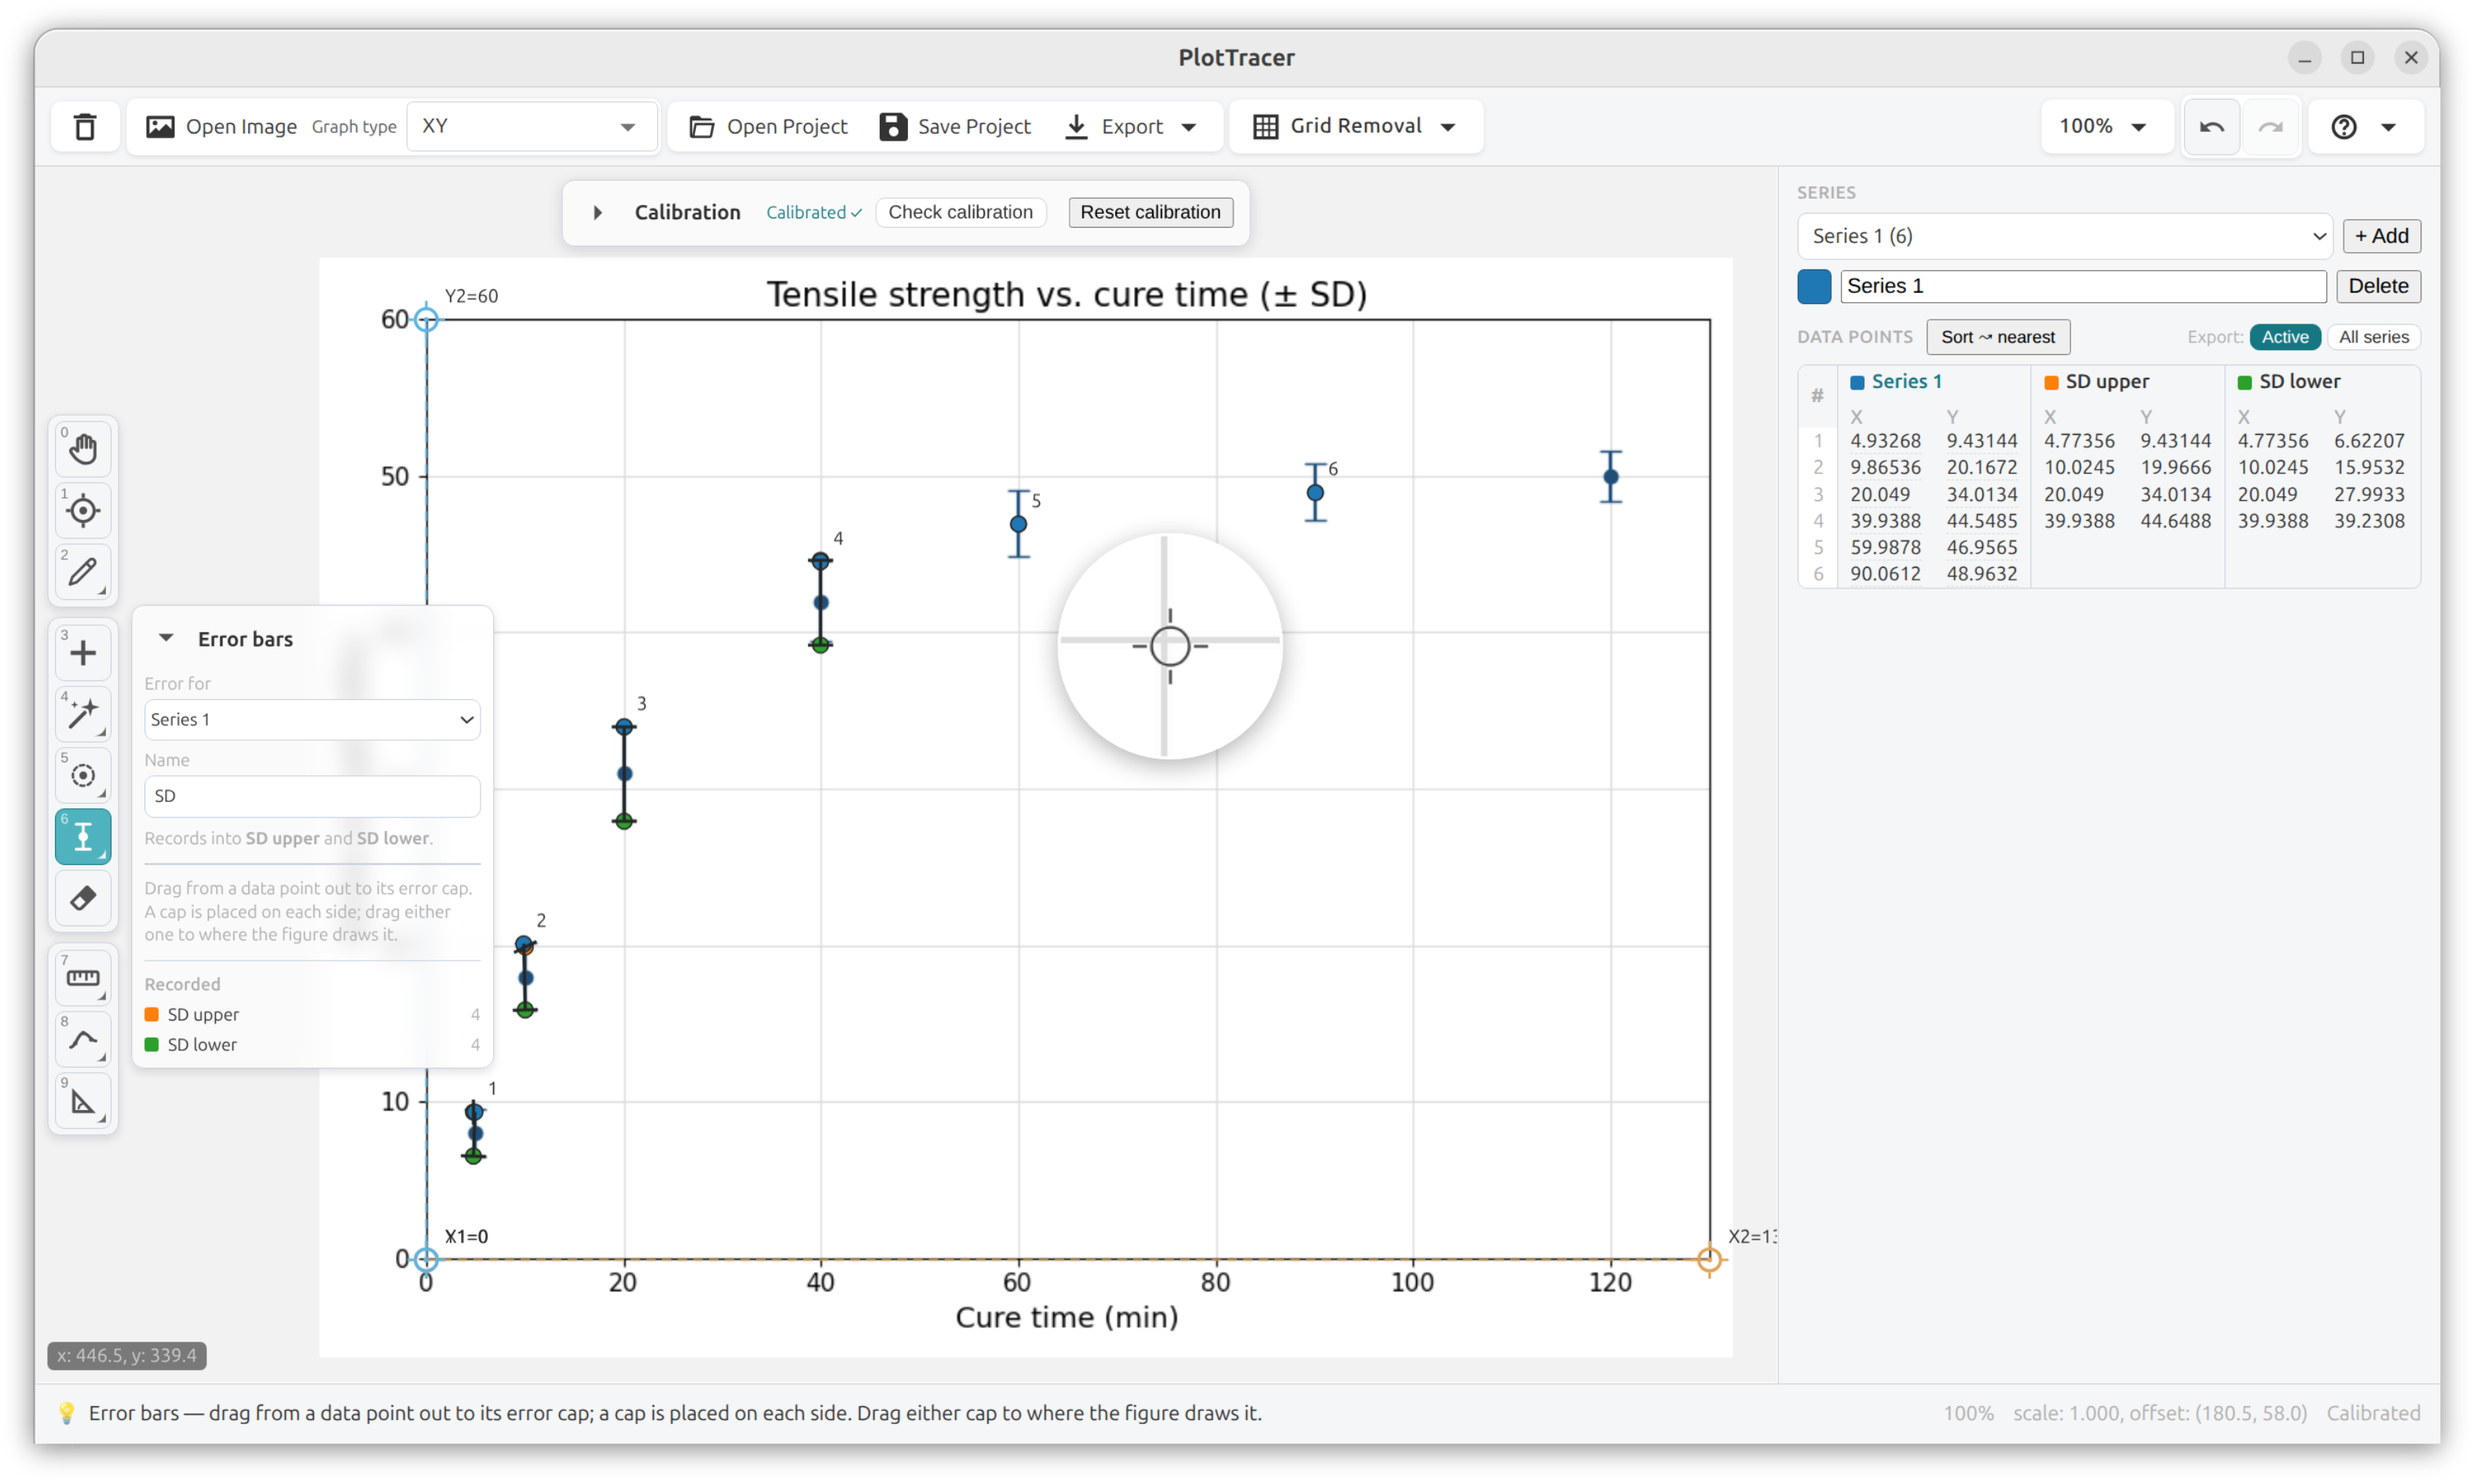
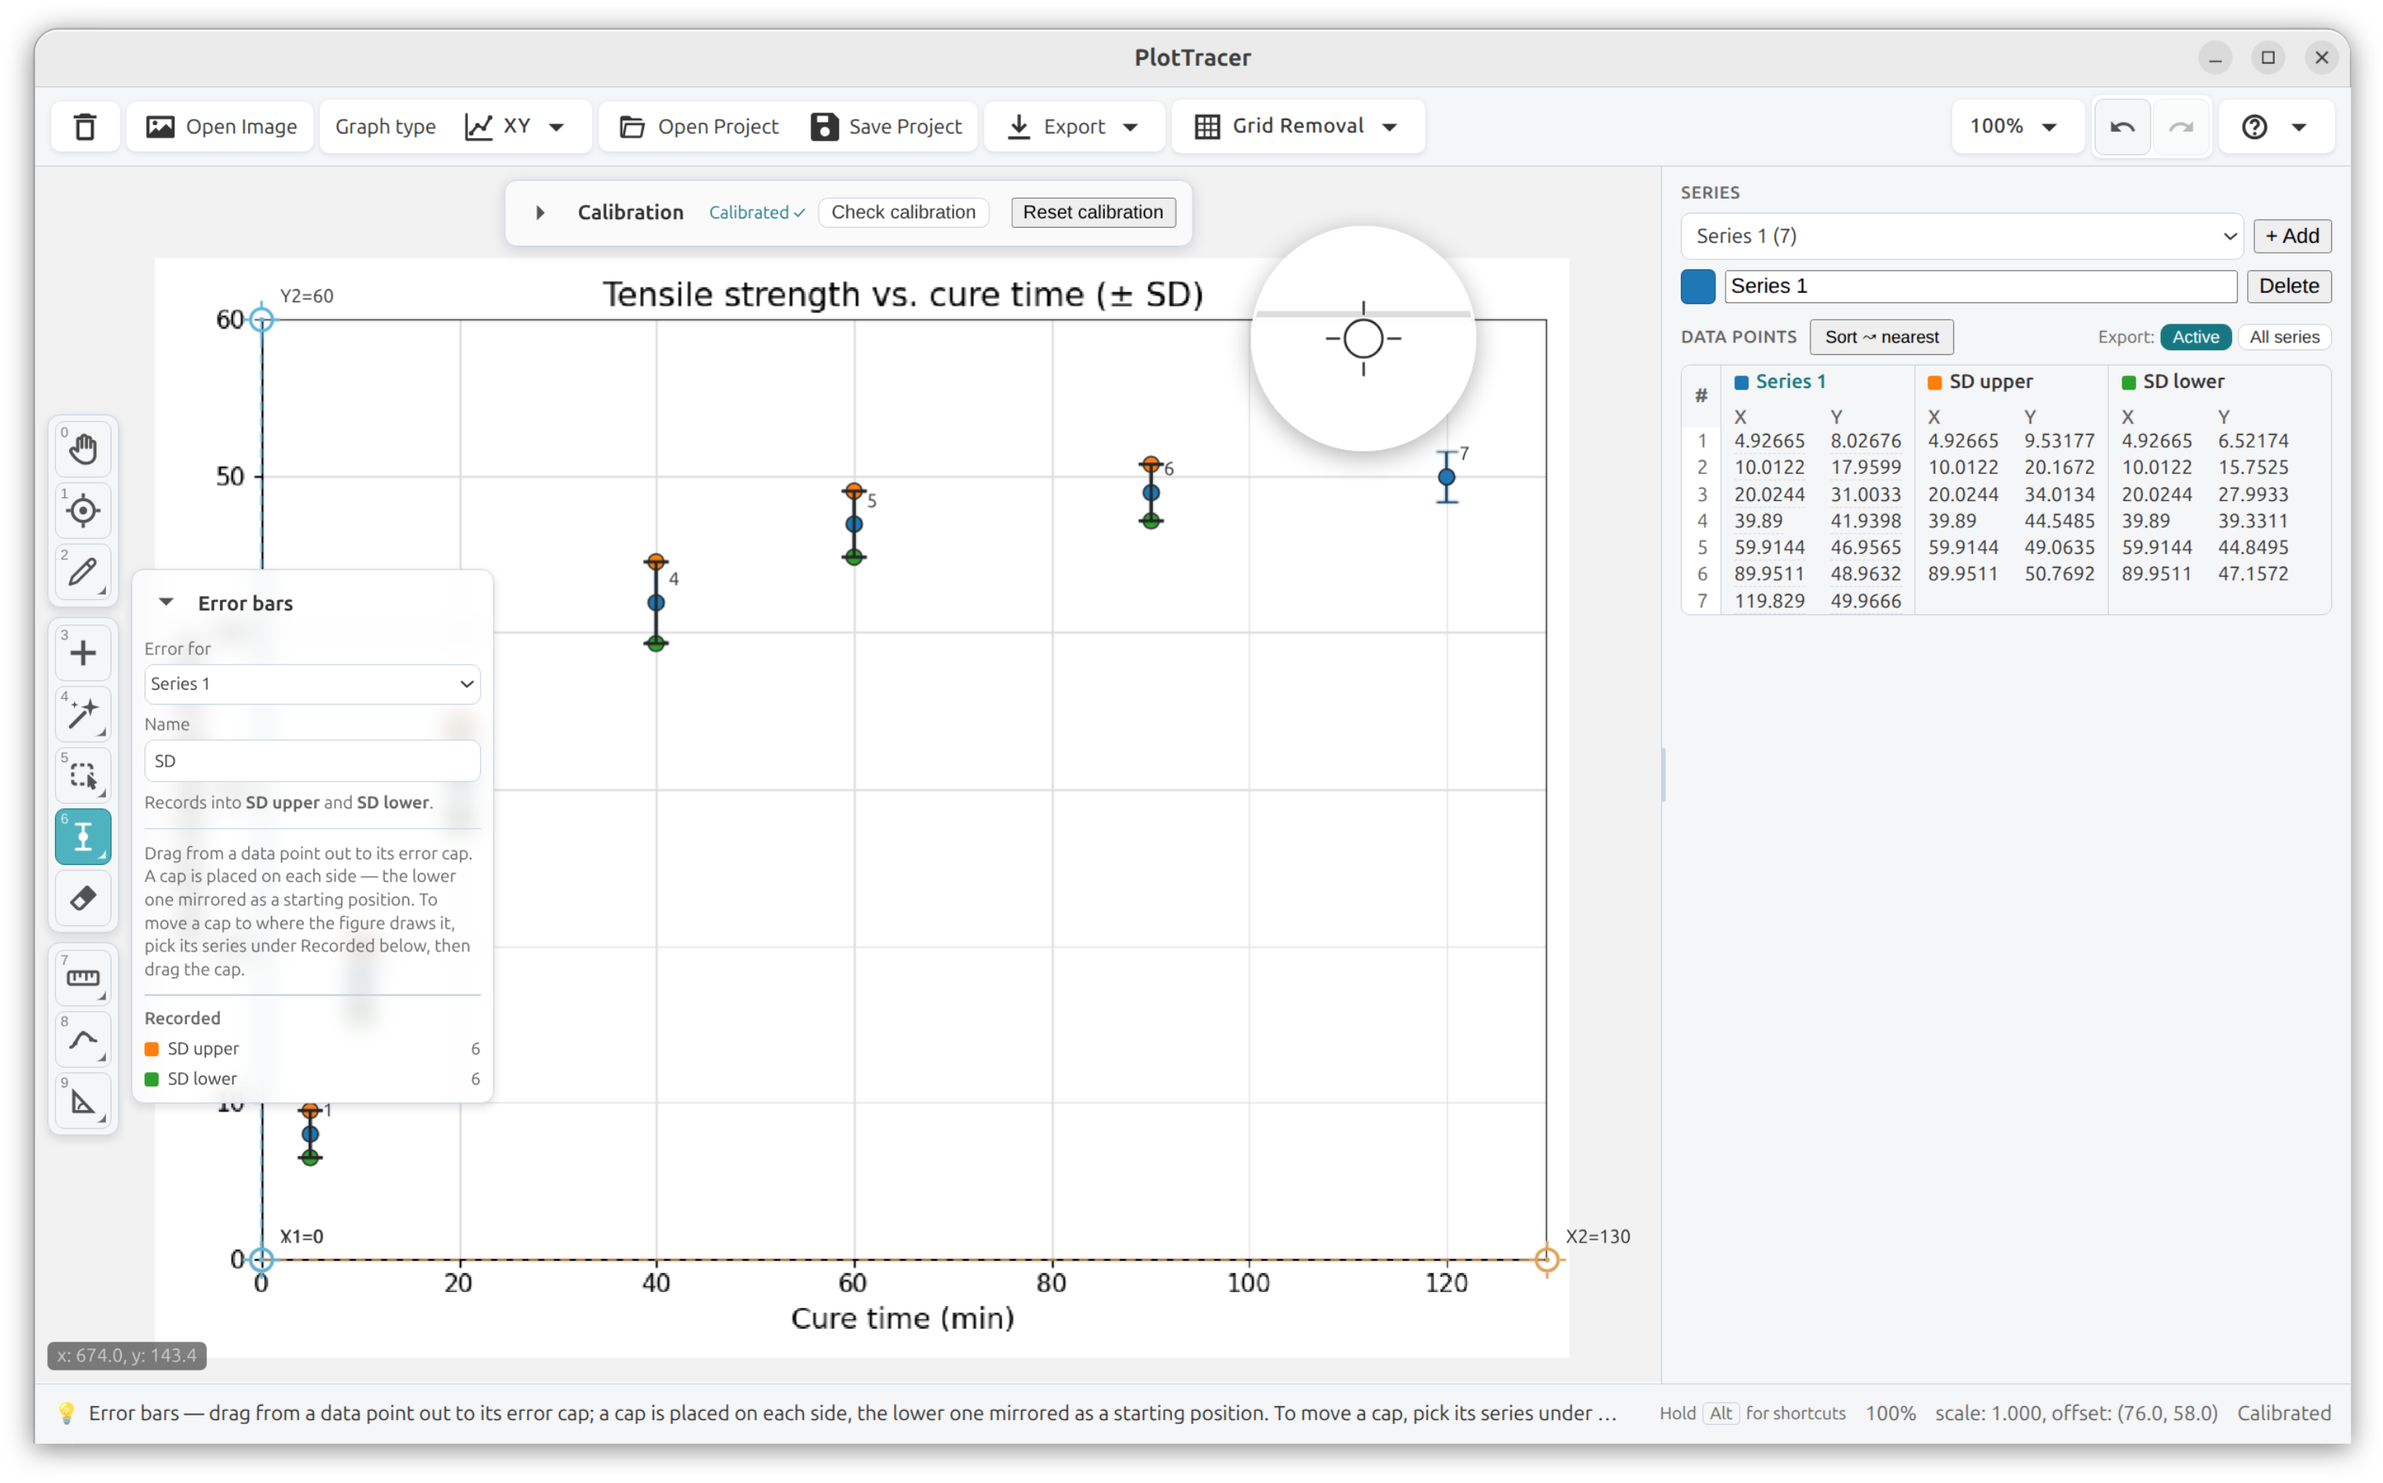
docs: the MANUAL had no error-bar section, and the site claimed a disclosure
**MANUAL section 7 — Error bars.** The whole workflow lived in one line ("they
are rail tool 6") plus the card's own hint. That is exactly the gap David fell
into today: looking at caps he could not select, with the instruction for how
to move them visible only in a tool he was not in. Now documented end to end —
the two fields, the drag (its start snaps to a real datum, its cap end never
does, because that end IS the measurement), upper/lower vs left/right, the
mirror, how to move a cap, multiple bar types on one datum, deletion cascade,
and what export writes. Later sections renumbered 7-9 -> 8-10.

⚑ It names the mirror as the trap it is: "The second cap starts as a mirror,
and a mirror is not a measurement." A symmetric figure hides that completely,
which is why the new asymmetric example is pointed at from here.

**The website claimed a disclosure the app does not make**, in TWO places (the
gallery figcaption and the feature card): "the app says plainly when a cap is
still mirrored rather than measured." It does not. It says, once and in
general, that the lower cap STARTS as a mirror -- it never marks WHICH caps
still are. Searched ui/ and engine/ for any per-cap indicator: there is none.

⚑ This copy had ALREADY been softened once, at the v1.3 gate, from an even
stronger claim ("without inventing symmetry or defaults"). The softening did
not go far enough, and the residue has been live ever since. Now says what is
[…]

diff --git a/docs/index.html b/docs/index.html
@@ -495,9 +495,9 @@
         <figcaption><b>Scatter &amp; curve fit.</b> Fit a model through the points — the fit exports as its own block, never mixed into the record.</figcaption>
       </figure>
       <figure class="shot-card">
-        <img class="shot" src="assets/shot-errorbars.png" width="3150" height="1888"
+        <img class="shot" src="assets/shot-errorbars.png" width="3034" height="1888"
           alt="A plot in PlotTracer with error bars captured on the data points.">
-        <figcaption><b>Error &amp; uncertainty.</b> Place each cap where the figure actually draws it — asymmetric and all — and the app says plainly when a cap is still mirrored rather than measured.</figcaption>
+        <figcaption><b>Error &amp; uncertainty.</b> Place each cap where the figure actually draws it — asymmetric and all. The tool says up front that the second cap starts as a mirror rather than a measurement, and which series to pick to move it.</figcaption>
       </figure>
       <figure class="shot-card">
         <img class="shot" src="assets/shot-histogram.png" width="2888" height="1888"
@@ -630,7 +630,7 @@
       <div class="feature">
         <svg class="ico" viewBox="0 0 24 24" fill="none" stroke="currentColor" stroke-width="1.7" stroke-linecap="round" stroke-linejoin="round"><path d="M12 4v16M8 7h8M8 17h8"/><circle cx="12" cy="12" r="2.3" fill="currentColor" stroke="none"/></svg>
         <h3>Error &amp; uncertainty</h3>
-        <p>Place each cap where the figure actually draws it — asymmetric and all. The app says plainly when a cap is still mirrored rather than measured.</p>
+        <p>Place each cap where the figure actually draws it — asymmetric and all. The tool says up front that the second cap starts as a mirror rather than a measurement, and which series to pick to move it.</p>
       </div>
 
       <div class="feature">

diff --git a/MANUAL.md b/MANUAL.md
@@ -211,13 +211,63 @@ next. A reading you placed by hand is never overwritten.
   a fresh figure. Flip between figures with the ◀ ▶ arrows by the calibration card;
   each keeps its own image, calibration, series, and graph type.
 
-## 7. Measure (optional)
+## 7. Error bars (optional)
+
+Error bars are **not a graph type** — they are rail tool `6`, captured on top of
+whichever series they belong to.
+
+**Set up.** Open the tool and fill two fields:
+
+- **Error for** — the series the bars belong to. It needs at least one point
+  already; an error bar hangs off a data point.
+- **Name** — what this uncertainty is called on the figure: `SD`, `95% CI`,
+  `SEM`. The card shows what it becomes — two new series, **SD upper** and
+  **SD lower**. That name is the only meaning PlotTracer records; it never
+  decides what your bars represent.
+
+**Capture.** Drag from a data point out to its cap.
+
+- The **start** of the drag snaps onto a point you already placed, so the bar is
+  anchored to a real reading rather than to wherever you pressed.
+- The **cap** end is never snapped. That end *is* the measurement.
+- Drag up or down and the pair records as `upper` / `lower`; drag left or right
+  and it records as `left` / `right`, for horizontal uncertainty.
+
+**⚑ The second cap starts as a mirror, and a mirror is not a measurement.** One
+drag places a cap on both sides: the one you dragged, and its reflection through
+the datum as a *starting position*. On a symmetric figure that is already right.
+On an asymmetric one it is reporting a symmetry the figure never drew, and you
+have to move it.
+
+**To move a cap where the figure actually draws it:** pick its series under
+**Recorded** in the card, then drag that cap. A cap slides only **along its own
+bar** — the sideways part of the drag is discarded — so adjusting one can never
+tilt the whisker off its datum, however you drag.
+
+Two bundled examples make the difference visible. *Error bars — tensile strength
+± SD* is symmetric, so every mirrored cap happens to land correctly. *Error bars
+— asymmetric 95% CI* is lopsided at every point, which is the case a mirror
+cannot do for you.
+
+**More than one kind on the same point.** Capture a second bar under a different
+name and both are kept. An `SD` bar and a `95% CI` bar on the same datum are
+separate pairs; deleting one leaves the other standing.
+
+**Deleting.** Deleting a cap removes the whole bar it belongs to — that cap and
+its opposite number — and leaves the data point. Deleting the data point takes
+its error bars with it.
+
+**Export.** The caps leave as their own series, under the names you gave them,
+as **absolute positions** rather than as ± deltas. A delta is arithmetic anyone
+can redo; the positions are what was measured off the figure.
+
+## 8. Measure (optional)
 
 The **ruler** tool (`7`) opens a Measure card: **distance, angle, area, slope** —
 in the chart's own units, or a scale you set from any known length on the image.
 Measurements are a separate collection from your series data.
 
-## 8. Analyse (optional)
+## 9. Analyse (optional)
 
 Open **Curve fit** from the tool rail to fit a model through a traced series.
 
@@ -256,7 +306,7 @@ polynomial is solved directly and has nothing to converge, so it reads `n/a`.
 The fit is always a **separate block** from the record — the traced points are
 never overwritten by the model drawn through them.
 
-## 9. Export
+## 10. Export
 
 **Export** (top bar) → **CSV, TSV, JSON, OpenDocument (ODS), Excel (XLSX), LaTeX,
 MATLAB, Python, R**,
